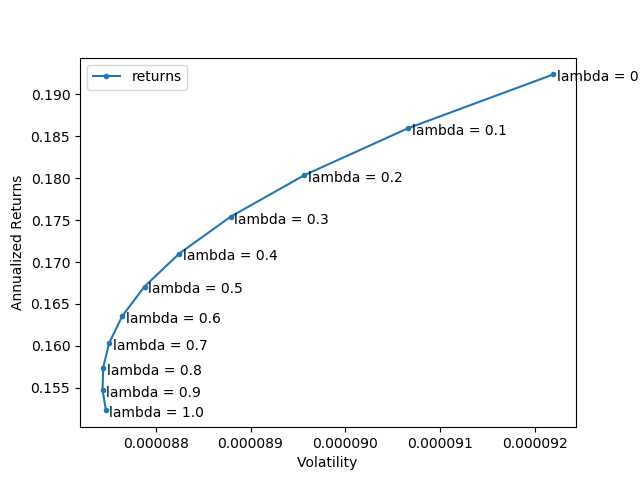
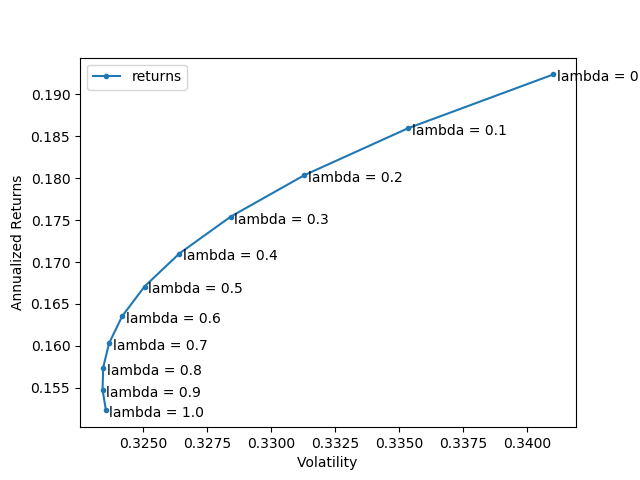
Fixes

Changed region(s): [[0.1875, 0.9062, 0.9062, 0.9375]]

diff --git a/lamb_sharpe.py b/lamb_sharpe.py
@@ -1,0 +1,73 @@
+'''
+Lambda and sharpe ratio graph, using 50% cutoff and total score.
+'''
+
+
+import pandas as pd
+import numpy as np
+from decimal import Decimal
+
+
+def prepare(RF=0):
+    '''
+    Return a dataframe that we will later use for the graph.
+    '''
+
+    out = pd.read_csv('data/SP500_ESG.csv')
+    out.dropna(inplace=True)
+    ret = pd.read_csv('data/returns.csv')
+    ret['RET'].replace({'C': 0, 'B' : 0}, inplace=True)
+    ret.dropna(subset=['TICKER'], inplace=True)
+
+    esg_cutoff = out['total_score'].quantile(0.5)
+    esg_df = out[out['total_score']> esg_cutoff]
+    non_esg_df = out[out['total_score'] <= esg_cutoff]
+
+    ret_2018 = ret[(ret['date'] > 20130101) & (ret['date'] < 20181231)]
+    num_trading_days = ret_2018['date'].unique().shape[0]
+    ret_2018 = ret_2018[['date', 'TICKER', 'RET']]
+    ret_2018['RET'] = ret_2018['RET'].astype('float64', copy=True)
+
+    esg_df = esg_df.merge(ret_2018, left_on='ticker', right_on='TICKER', \
+                                                                    how='right')
+    esg_df = esg_df[['date', 'TICKER', 'weight', 'RET']]
+    esg_df.dropna(inplace=True)
+
+    non_esg_df = non_esg_df.merge(ret_2018, left_on='ticker', \
+                                                right_on='TICKER', how='right')
+    non_esg_df = non_esg_df[['date', 'TICKER', 'weight', 'RET']]
+    non_esg_df.dropna(inplace=True)
+
+    lamb_sharpe = pd.DataFrame()
+    list_sharpe = []
+    list_lambdas = []
+
+    for lambda_ in np.linspace(0, 1, 11):
+        esg_df['weight_esg'] = esg_df['weight'] * lambda_
+        non_esg_df['weight_esg'] = non_esg_df['weight'] * (1 - lambda_)
+        full_df = esg_df.append(non_esg_df)
+        full_df['weight_esg'] = full_df['weight_esg'] / full_df['weight_esg'].sum()
+        full_df.set_index(pd.to_datetime(full_df['date'], \
+                                                    format='%Y%m%d'), inplace=True)
+        full_df.drop(columns=['date'], inplace=True)
+        full_df['weight_esg'] = full_df['weight_esg'] * num_trading_days
+        full_df['RET_esg'] = full_df['weight_esg'] * full_df['RET']
+        daily_port_ret = full_df.groupby(full_df.index.date)['RET_esg'].sum()
+        mean_daily_ret = daily_port_ret.mean()
+        sd_daily_ret = daily_port_ret.std()
+        sharpe = (mean_daily_ret - RF) / sd_daily_ret * (num_trading_days ** 0.5)
+        
+        list_sharpe.append(sharpe)
+        list_lambdas.append(lambda_)
+
+    lamb_sharpe['lambda'] = list_lambdas
+    lamb_sharpe['sharpe'] = list_sharpe
+
+    return lamb_sharpe
+
+lamb_sharpe = prepare()
+plt = lamb_sharpe.plot(x='lambda', y='sharpe', style='.-')
+plt.set_ylabel('Sharpe Ratios')
+plt.set_xlabel('Lambdas')
+
+plt.figure.savefig(r'data/Lambda vs. Sharpe Ratio.png')

diff --git a/return_vol.py b/return_vol.py
@@ -51,7 +51,7 @@ for lambda_ in np.linspace(0, 1, 11):
     annual_returns = full_df.groupby(full_df.index.year)['RET_esg'].sum()
     ann_return_cooler = (1 + annual_returns).prod() ** (1/6) - 1
     daily_port_ret = full_df.groupby(full_df.index.date)['RET_esg'].sum()
-    ann_vol = daily_port_ret.std() * (1 / (num_trading_days * 6)) ** (1 / 2)
+    ann_vol = daily_port_ret.std() * (num_trading_days ** 0.5)
     
     list_returns.append(ann_return_cooler)
     list_vols.append(ann_vol)
